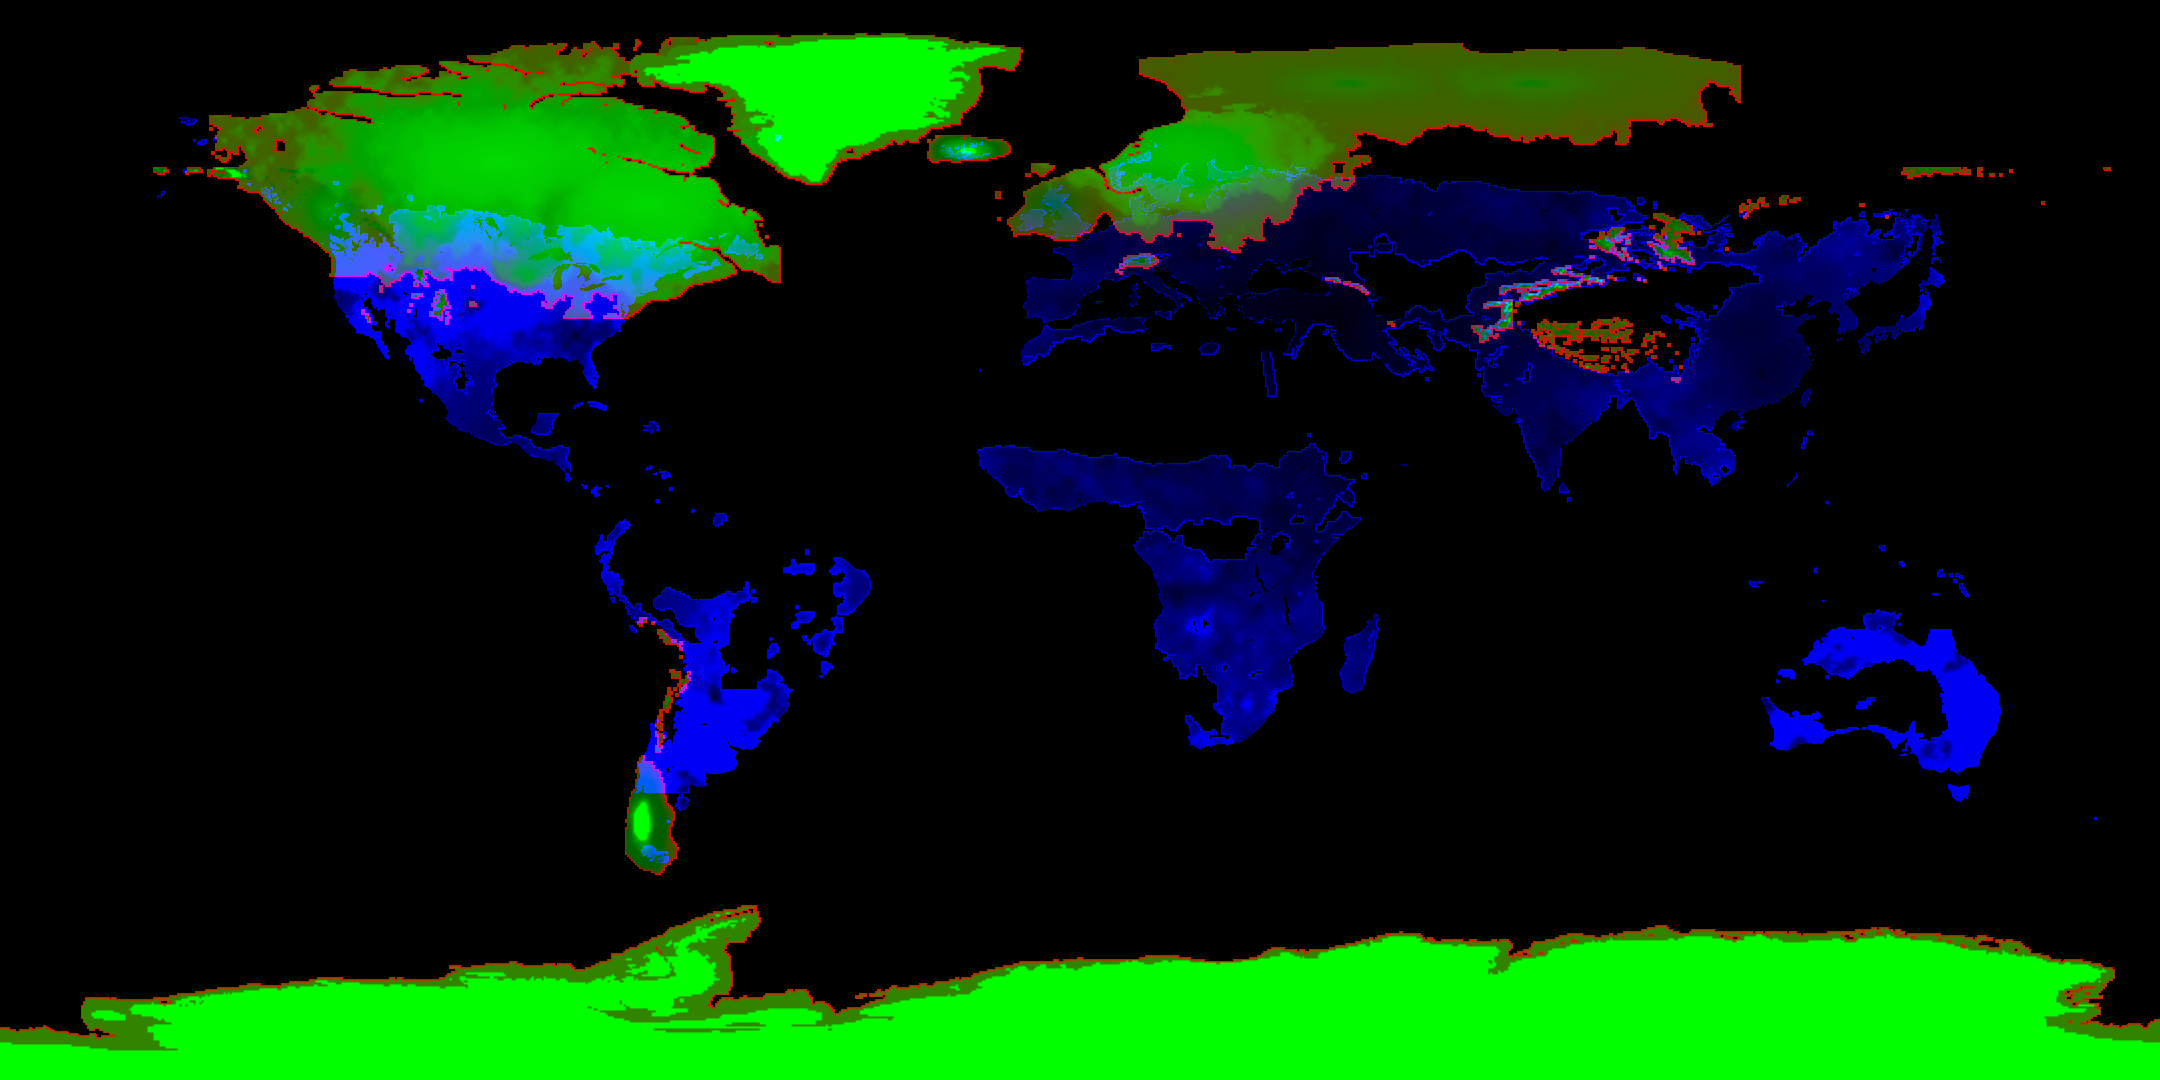
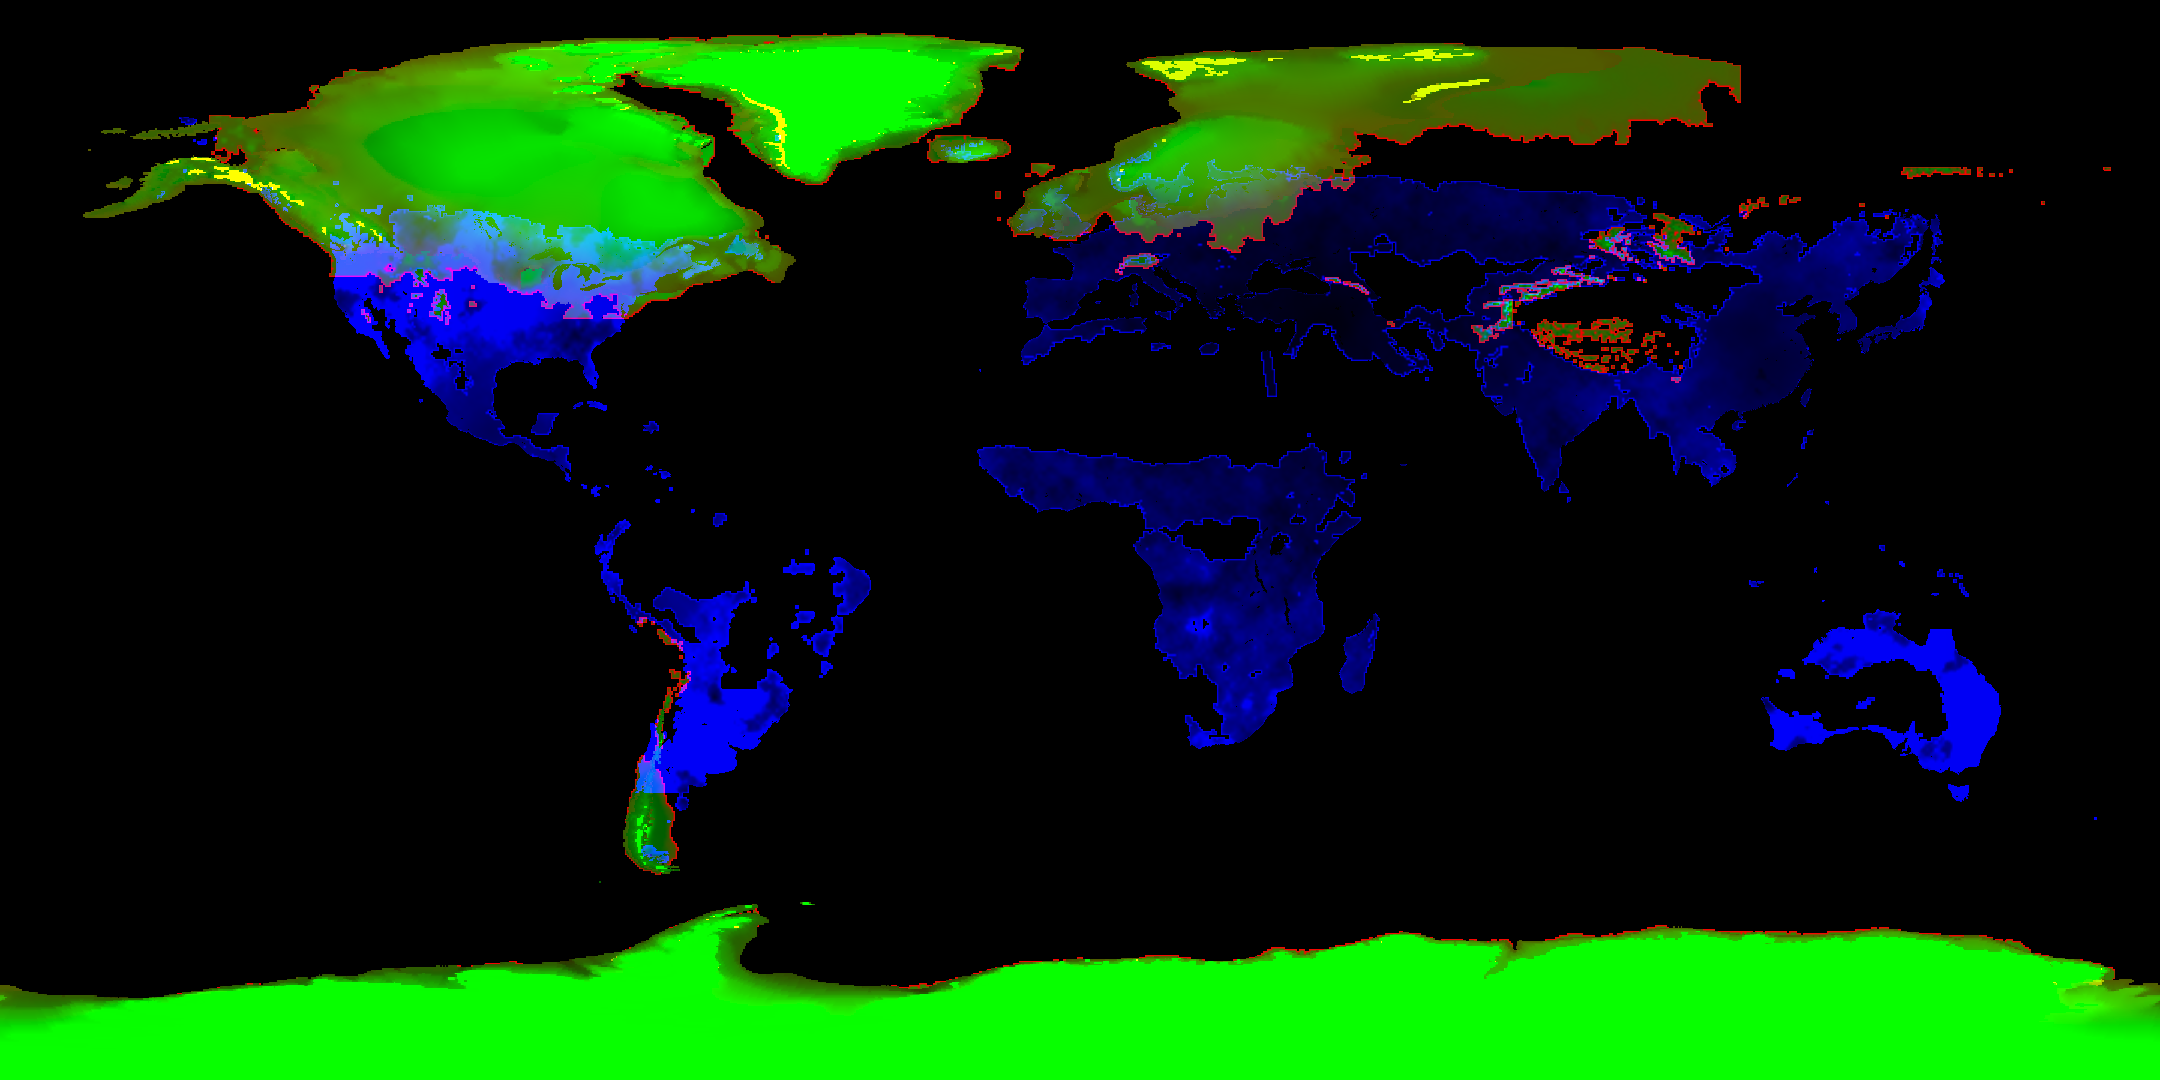
Ice sheets from PaleoMIST 1.0 (Gowan et al. 2021, CC BY 4.0)
Onset/retreat codes in atlas/ice.png rebuilt from the 2.5-kyr ice-thickness
grids, with margins interpolated by distance between slices. Mountain
glaciers outside PaleoMIST (Alps etc.) keep the schematic snowline model.

diff --git a/karahan-era.html b/karahan-era.html
@@ -341,7 +341,7 @@ ol.know a:hover{border-bottom-color:var(--accent)}
   </section>
 
   <div class="foot">
-    <p><b>Map data and estimates.</b> For the last 26,000 years, land and sea follow the shelf-sea reconstructions of <a href="https://doi.org/10.1111/geb.13573" target="_blank" rel="noopener">De Groeve et al. 2022</a> (<a href="https://doi.org/10.21942/uva.20029220.v1" target="_blank" rel="noopener">data</a>, CC BY 4.0), which include regional sea level and the rebound of land once pressed down by ice, every 500 years (interpolated between). Before that, coastlines are redrawn from the <a href="https://www.ngdc.noaa.gov/mgg/global/etopo5.HTML" target="_blank" rel="noopener">ETOPO</a> 20-arc-minute elevation grid at the estimated global sea level. Today's coastline is from <a href="https://www.naturalearthdata.com/" target="_blank" rel="noopener">Natural Earth</a>. Ice sheets are a schematic model: each sheet (Laurentide, Cordilleran, Fennoscandian, British–Irish, Barents–Kara, Iceland, Alps, Patagonia) grows and shrinks from its centres to match the extents described in the literature (Dyke 2004; Hughes et al. 2016; the Wikipedia summary of the Last Glacial Maximum), and mountain glaciers follow a snowline lowered by up to about 1 km in the cold. Biomes and local temperatures come from <a href="https://doi.org/10.1038/s41597-020-0552-1" target="_blank" rel="noopener">Beyer, Krapp &amp; Manica 2020</a> (HadCM3 climate downscaled to 0.5° and BIOME4 vegetation, every 1,000–2,000 years; <a href="https://doi.org/10.6084/m9.figshare.12293345" target="_blank" rel="noopener">data</a>, CC BY 4.0), grouped into the ten classes of the legend. Two known model biases are corrected with published patterns: in cold phases northern Eurasia and Beringia are drawn as open mammoth steppe instead of the modelled taiga (pollen syntheses, BIOME 6000), and the Sahara and Arabia are greened during the African Humid Period, which the model misses. Global temperature for the last 24,000 years is the data-assimilation reconstruction of <a href="https://doi.org/10.1038/s41586-021-03984-4" target="_blank" rel="noopener">Osman et al. 2021</a> (the chart's band is its 90% range); the dotted line is the proxy-based Holocene curve of <a href="https://doi.org/10.1038/s41597-020-0530-7" target="_blank" rel="noopener">Kaufman et al. 2020</a>. The two disagree about whether the mid-Holocene was warmer than the 19th century, an open question known as the Holocene temperature conundrum. Farmland spreads outward from the known centres of domestication at estimated speeds, then with 18th–20th-century settler frontiers. Treat the biome and farmland layers as illustrations of the pattern, not as reconstructions.</p>
+    <p><b>Map data and estimates.</b> For the last 26,000 years, land and sea follow the shelf-sea reconstructions of <a href="https://doi.org/10.1111/geb.13573" target="_blank" rel="noopener">De Groeve et al. 2022</a> (<a href="https://doi.org/10.21942/uva.20029220.v1" target="_blank" rel="noopener">data</a>, CC BY 4.0), which include regional sea level and the rebound of land once pressed down by ice, every 500 years (interpolated between). Before that, coastlines are redrawn from the <a href="https://www.ngdc.noaa.gov/mgg/global/etopo5.HTML" target="_blank" rel="noopener">ETOPO</a> 20-arc-minute elevation grid at the estimated global sea level. Today's coastline is from <a href="https://www.naturalearthdata.com/" target="_blank" rel="noopener">Natural Earth</a>. Ice sheets follow the global reconstruction PaleoMIST 1.0 of <a href="https://doi.org/10.1038/s41467-021-21469-w" target="_blank" rel="noopener">Gowan et al. 2021</a> (<a href="https://doi.org/10.1594/PANGAEA.905800" target="_blank" rel="noopener">data</a>, CC BY 4.0), whose margins every 2,500 years are built on the dated limits of Dyke, Dalton, Hughes and others; between those steps each ice edge is interpolated so it advances and retreats smoothly. PaleoMIST covers the ice sheets of North America, Greenland, Eurasia, Iceland, Patagonia and Antarctica; the Alps and other mountain glaciers keep the earlier schematic model, with a snowline lowered by up to about 1 km in the cold. Biomes and local temperatures come from <a href="https://doi.org/10.1038/s41597-020-0552-1" target="_blank" rel="noopener">Beyer, Krapp &amp; Manica 2020</a> (HadCM3 climate downscaled to 0.5° and BIOME4 vegetation, every 1,000–2,000 years; <a href="https://doi.org/10.6084/m9.figshare.12293345" target="_blank" rel="noopener">data</a>, CC BY 4.0), grouped into the ten classes of the legend. Two known model biases are corrected with published patterns: in cold phases northern Eurasia and Beringia are drawn as open mammoth steppe instead of the modelled taiga (pollen syntheses, BIOME 6000), and the Sahara and Arabia are greened during the African Humid Period, which the model misses. Global temperature for the last 24,000 years is the data-assimilation reconstruction of <a href="https://doi.org/10.1038/s41586-021-03984-4" target="_blank" rel="noopener">Osman et al. 2021</a> (the chart's band is its 90% range); the dotted line is the proxy-based Holocene curve of <a href="https://doi.org/10.1038/s41597-020-0530-7" target="_blank" rel="noopener">Kaufman et al. 2020</a>. The two disagree about whether the mid-Holocene was warmer than the 19th century, an open question known as the Holocene temperature conundrum. Farmland spreads outward from the known centres of domestication at estimated speeds, then with 18th–20th-century settler frontiers. Treat the biome and farmland layers as illustrations of the pattern, not as reconstructions.</p>
     <p><b>Cultures and peoples.</b> Before 10,000 BCE, the dashed, softly coloured areas are hypothetical extents of 47 archaeological cultures and populations (for example Aurignacian, Gravettian, Magdalenian, Natufian, Iberomaurusian, Clovis and the first Australians). For Europe from 9500 to 2000 BCE, 88 Mesolithic, Neolithic, Copper Age and Early Bronze Age cultures (from Maglemosian and Lepenski Vir through LBK, Vinča, Varna, Cucuteni–Trypillia, Funnelbeaker and Yamnaya to Corded Ware, Bell Beaker and Únětice) replace the coarse European blocks of the borders maps. All are drawn around the regions and key sites their Wikipedia articles describe and clipped to the land of the time; site positions marked “approx.” are estimates. Elsewhere, from 10,000 BCE the map uses the historical-basemaps borders, and from 3400 BCE states come from <a href="https://github.com/Seshat-Global-History-Databank/cliopatria" target="_blank" rel="noopener">Cliopatria</a> (Seshat Global History Databank, v0.2.1, CC BY 4.0; <a href="https://doi.org/10.1038/s41597-025-04516-9" target="_blank" rel="noopener">Bennett et al. 2025</a>): 13,700 dated border shapes for more than 1,600 polities, each shown only in the years it applies to, with its Wikipedia article. Peoples outside those states (foragers, herders, tribal confederations) still come from historical-basemaps. Every culture and state has a popup. For 815 names the matching Wikipedia article was checked and is linked with a short description; for the rest the popup offers a Wikipedia search that opens the article directly when the title matches.</p>
     <p><b>Forests and human impact.</b> The Forests layer is an estimate: each biome has a natural forest share, reduced over time by farmland and by the global loss of about a third of the world's forests since the last ice age (6 billion hectares 10,000 years ago, about 4 billion today, from Our World in Data). In 19 regions with documented histories (Iceland, Ireland, Britain, Scotland, Greece, the Dinaric Karst, Lebanon, Rapa Nui, Madagascar, New Zealand, Hawaii, Haiti, the eastern United States, the Amazon, Borneo, Central Europe, Japan, China and Denmark) the forest share follows the published figures; values marked “est.” in their popups are estimates. 42 dated human-impact events, from megafauna extinctions and salted Sumerian fields to the Montreal Protocol, are tagged on the timeline.</p>
     <p><b>Population movements.</b> 60 migrations, expansions and forced movements, from the dispersal out of Africa and the peopling of the Americas through the spread of farming, Austronesian and Polynesian voyaging, the Bantu expansion, steppe migrations, the Migration Period, Norse and Mongol expansions, the Atlantic slave trade and 19th-century emigration to Partition and the Syrian refugee crisis. Arrows grow along an approximate route between the start and end dates given in each Wikipedia article, then fade.</p>

diff --git a/dev/scripts/build_ice_paleomist.py b/dev/scripts/build_ice_paleomist.py
@@ -1,0 +1,58 @@
+"""Rebuild the ice onset/retreat channels of atlas/ice.png from PaleoMIST 1.0.
+
+Source: Gowan et al. 2021, "A new global ice sheet reconstruction for the past 80 000 years", Nat. Commun. 12:1199,
+  data PaleoMIST 1.0, https://doi.org/10.1594/PANGAEA.905800 (CC BY 4.0)
+  -> dev/raw/paleomist/ice_reconstruction/global_grid/reconstruction_0.25_degree.nc  (ice_thickness, 2.5 kyr steps)
+
+ice.png channels (2160x1080, 1/6 degree):  R = ice onset code, G = retreat code (255 = still ice today),
+  B = farming start code (left unchanged). Codes follow iceCode(y) in the page.
+Between two slices the margin is interpolated by distance: a cell that is ice at t0 and free at t1 melts at
+  t0 + d0/(d0+d1)*(t1-t0), with d0 its distance inside the t0 margin and d1 its distance to the t1 ice (and the
+  same for growth). Only the last glaciation of each cell is kept (the encoding has one interval).
+Cells PaleoMIST never glaciates keep their previous codes (mountain glaciers from the schematic snowline model).
+Run:  .venv/Scripts/python -I dev/scripts/build_ice_paleomist.py
+"""
+import numpy as np, netCDF4 as nc
+from scipy import ndimage
+from PIL import Image
+
+def ice_code(y):                        # same as iceCode() in the page
+    y = np.asarray(y, float)
+    c = np.where(y <= -45000, 1, np.where(y <= -15000, np.round(1 + (y + 45000) / 30000 * 99), np.minimum(255, np.round(100 + (y + 15000) / 12000 * 154))))
+    return c.astype(np.uint8)
+
+d = nc.Dataset('dev/raw/paleomist/ice_reconstruction/global_grid/reconstruction_0.25_degree.nc'); d.set_auto_mask(False)
+T = d['time'][:]; sel = [i for i, t in enumerate(T) if t >= -45000]          # 45 ka BP .. 0, oldest first
+BP = [-T[i] for i in sel]; YR = [1950 - b for b in BP]
+# 0.25 deg grid (lat -90..90, lon -180..180 inclusive) -> 1/6 deg cell centres, nearest
+la = 90 - (np.arange(1080) + .5) / 6; lo = -180 + (np.arange(2160) + .5) / 6
+ri = np.clip(np.round((la + 90) / .25).astype(int), 0, 720); ci = np.clip(np.round((lo + 180) / .25).astype(int), 0, 1440)
+M = np.stack([(d['ice_thickness'][i][np.ix_(ri, ci)] > 1) for i in sel])     # (n, 1080, 2160) ice masks
+n = len(sel)
+dist_in = [ndimage.distance_transform_edt(m) for m in M]                      # distance inside ice
+dist_out = [ndimage.distance_transform_edt(~m) for m in M]                    # distance to ice
+
+on = np.full((1080, 2160), np.nan); off = np.full((1080, 2160), np.nan)
+ever = M.any(0)
+for k in range(n - 1):
+    a, b = M[k], M[k + 1]
+    t0, t1 = YR[k], YR[k + 1]
+    grow = ~a & b; melt = a & ~b
+    fg = dist_out[k] / np.maximum(dist_out[k] + dist_in[k + 1], 1e-6)          # growth: reached when margin passes
+    fm = dist_in[k] / np.maximum(dist_in[k] + dist_out[k + 1], 1e-6)
+    tg = t0 + fg * (t1 - t0); tm = t0 + fm * (t1 - t0)
+    on = np.where(grow, tg, on); off = np.where(grow, np.nan, off)             # a new glaciation resets the interval
+    off = np.where(melt, tm, off)
+on = np.where(M[0] & np.isnan(on), YR[0] - 1, on)                              # already ice at 45 ka BP
+still = M[-1]
+old = np.array(Image.open('atlas/ice.png').convert('RGB'))
+R = old[..., 0].copy(); G = old[..., 1].copy()
+use = ever
+R[use] = np.maximum(ice_code(on[use]), 1)
+G[use] = np.where(still[use], 255, np.minimum(ice_code(np.nan_to_num(off[use], nan=1e9)), 254))
+G[use & still] = 255
+# cells whose last glaciation ended before 45 ka would have no interval: leave them ice-free
+bad = use & ~still & np.isnan(off) & ~np.isnan(on)
+R[bad] = 0
+Image.fromarray(np.dstack([R, G, old[..., 2]]), 'RGB').save('atlas/ice.png', optimize=True)
+print('slices', YR, '| cells from PaleoMIST', int(use.sum()), '| permanent', int(still.sum()))
